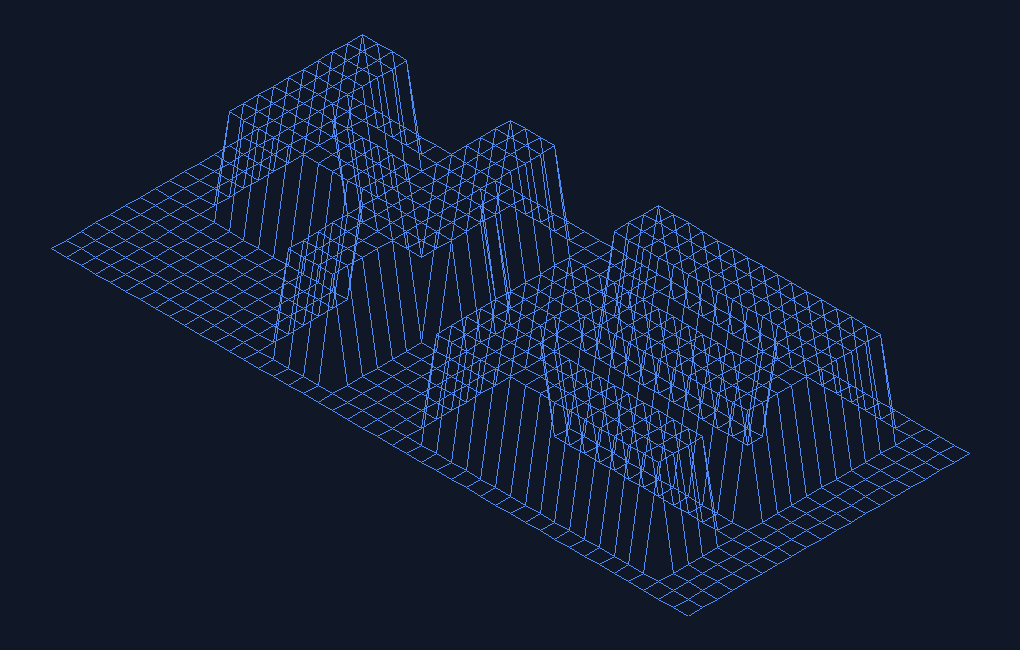
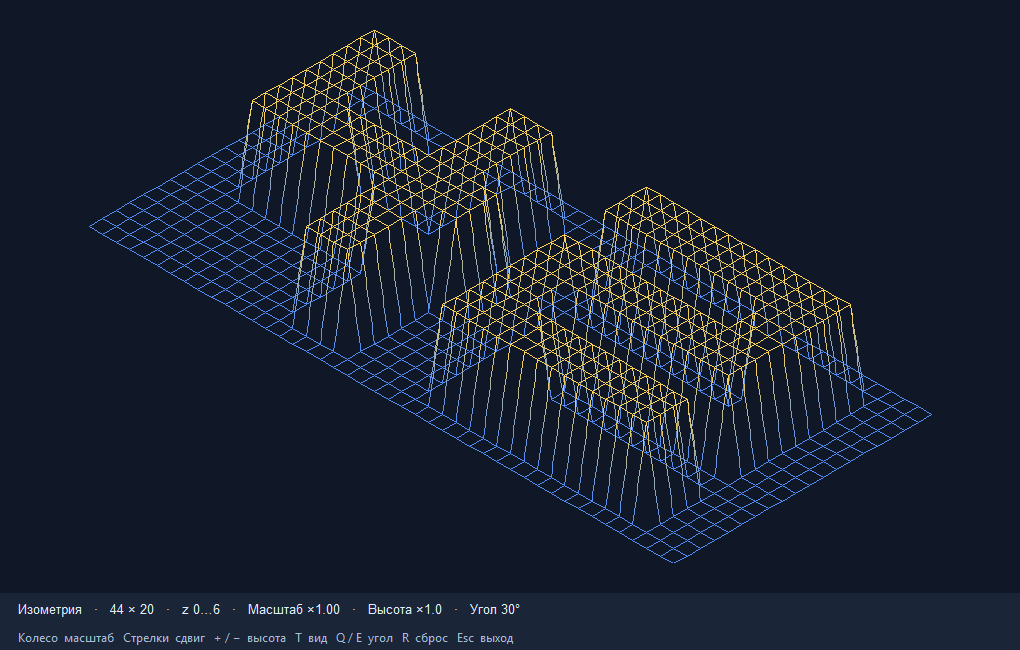
Добавить управление камерой и градиенты

diff --git a/fdf/app.py b/fdf/app.py
@@ -3,38 +3,88 @@
 from __future__ import annotations
 
 import tkinter as tk
+from math import ceil
 
 from fdf.errors import FdfError
 from fdf.model import Map
-from fdf.projection import Camera
+from fdf.projection import Camera, height_color, lerp_color
+
+ScreenPoint = tuple[float, float]
+BACKGROUND = "#101827"
+PANEL = "#1A2638"
+TEXT = "#E2EBFA"
+HINT = "#A9BCD7"
+PAN_STEPS = {"left": (-24, 0), "right": (24, 0), "up": (0, -24), "down": (0, 24)}
+RUSSIAN_SHORTCUTS = {"е": "t", "й": "q", "у": "e", "к": "r"}
+WINDOWS_SHORTCUTS = {ord(key.upper()): key for key in "tqer"}
 
 
 class App:
-    """Отобразить карту и обработать события окна."""
+    """Владеть окном, камерой и обработчиками событий."""
 
     def __init__(self, height_map: Map, map_name: str = "") -> None:
         self.height_map = height_map
         self.camera = Camera()
+        self._min_height = min(point.z for point in height_map)
+        self._max_height = max(point.z for point in height_map)
+        self._colors = [
+            point.color or height_color(point.z, self._min_height, self._max_height)
+            for point in height_map
+        ]
+        self._fit_scale = 1.0
+        self._model_center: ScreenPoint = (0.0, 0.0)
+        self._fit_needed = True
         self._redraw_id: str | None = None
+        self._render_error: FdfError | None = None
+
         try:
             self._root = tk.Tk()
         except tk.TclError as error:
             raise FdfError(f"не удалось открыть графическое окно: {error}") from error
 
+        self._windows = self._root.tk.call("tk", "windowingsystem") == "win32"
         self._root.title(f"FdF — {map_name}" if map_name else "FdF — карта высот")
         self._root.geometry("960x640")
-        self._canvas = tk.Canvas(self._root, background="#101827", highlightthickness=0)
-        self._canvas.pack(fill="both", expand=True)
+        self._root.minsize(550, 340)
+        self._root.columnconfigure(0, weight=1)
+        self._root.rowconfigure(0, weight=1)
+
+        self._canvas = tk.Canvas(self._root, background=BACKGROUND, highlightthickness=0)
+        self._canvas.grid(row=0, column=0, sticky="nsew")
+        self._status = tk.Label(
+            self._root,
+            anchor="w",
+            background=PANEL,
+            foreground=TEXT,
+            padx=16,
+            pady=6,
+            font=("TkDefaultFont", 10),
+        )
+        self._status.grid(row=1, column=0, sticky="ew")
+        controls = tk.Label(
+            self._root,
+            text="Колесо  масштаб   Стрелки  сдвиг   + / −  высота   "
+            "T  вид   Q / E  угол   R  сброс   Esc  выход",
+            anchor="w",
+            background=PANEL,
+            foreground=HINT,
+            padx=16,
+            pady=3,
+        )
+        controls.grid(row=2, column=0, sticky="ew")
+
         self._canvas.bind("<Configure>", self._on_resize)
-        self._root.bind("<Escape>", self._on_escape)
+        self._canvas.bind("<MouseWheel>", self._on_wheel)
+        self._canvas.bind("<Button-4>", self._on_wheel)
+        self._canvas.bind("<Button-5>", self._on_wheel)
+        self._root.bind("<KeyPress>", self._on_key)
         self._root.protocol("WM_DELETE_WINDOW", self._close)
 
     def run(self) -> None:
         """Запустить цикл обработки событий окна."""
         self._root.mainloop()
-
-    def _on_escape(self, _event: tk.Event[tk.Misc]) -> None:
-        self._close()
+        if self._render_error is not None:
+            raise self._render_error
 
     def _close(self) -> None:
         if self._redraw_id is not None:
@@ -42,21 +92,121 @@ class App:
         self._root.destroy()
 
     def _on_resize(self, _event: tk.Event[tk.Canvas]) -> None:
+        self._request_redraw(refit=True)
+
+    def _on_wheel(self, event: tk.Event[tk.Canvas]) -> None:
+        if event.num == 4:
+            steps = 1.0
+        elif event.num == 5:
+            steps = -1.0
+        else:
+            steps = min(4.0, max(-4.0, event.delta / 120))
+
+        old_scale = self.camera.scale
+        new_scale = min(self._fit_scale * 8, max(self._fit_scale * 0.2, old_scale * 1.18**steps))
+        ratio = new_scale / old_scale
+        center_x, center_y = self._model_center
+        self.camera.offset_x = center_x + (self.camera.offset_x - center_x) * ratio
+        self.camera.offset_y = center_y + (self.camera.offset_y - center_y) * ratio
+        self.camera.scale = new_scale
+        self._request_redraw()
+
+    def _on_key(self, event: tk.Event[tk.Misc]) -> None:
+        key = RUSSIAN_SHORTCUTS.get(event.char.lower(), event.keysym.lower())
+        if self._windows and key == "??":
+            key = WINDOWS_SHORTCUTS.get(event.keycode, key)
+        if key == "escape":
+            self._close()
+        elif key in PAN_STEPS:
+            dx, dy = PAN_STEPS[key]
+            self.camera.offset_x += dx
+            self.camera.offset_y += dy
+            center_x, center_y = self._model_center
+            self._model_center = center_x + dx, center_y + dy
+            self._request_redraw()
+        elif key in {"plus", "equal", "kp_add"}:
+            self.camera.z_scale = min(8.0, self.camera.z_scale + 0.2)
+            self._request_redraw(refit=True)
+        elif key in {"minus", "underscore", "kp_subtract"}:
+            self.camera.z_scale = max(0.0, self.camera.z_scale - 0.2)
+            self._request_redraw(refit=True)
+        elif key == "t":
+            self.camera.top_view = not self.camera.top_view
+            self._request_redraw(refit=True)
+        elif key == "q":
+            self.camera.angle = max(0.0, self.camera.angle - 5)
+            self._request_redraw(refit=True)
+        elif key == "e":
+            self.camera.angle = min(85.0, self.camera.angle + 5)
+            self._request_redraw(refit=True)
+        elif key == "r":
+            self.camera = Camera()
+            self._request_redraw(refit=True)
+
+    def _request_redraw(self, *, refit: bool = False) -> None:
+        self._fit_needed = self._fit_needed or refit
         if self._redraw_id is not None:
             self._root.after_cancel(self._redraw_id)
         self._redraw_id = self._root.after(25, self._draw)
 
     def _draw(self) -> None:
         self._redraw_id = None
-        self.camera.fit(self.height_map, self._canvas.winfo_width(), self._canvas.winfo_height())
+        try:
+            self._draw_map()
+        except (ArithmeticError, ValueError, tk.TclError):
+            self._render_error = FdfError("не удалось спроецировать карту с указанными высотами")
+            self._close()
+
+    def _draw_map(self) -> None:
+        width = self._canvas.winfo_width()
+        height = self._canvas.winfo_height()
+        if self._fit_needed:
+            self.camera.fit(self.height_map, width, height)
+            self._fit_scale = self.camera.scale
+            self._model_center = width / 2, height / 2
+            self._fit_needed = False
+
         self._canvas.delete("all")
         points = [self.camera.project(point) for point in self.height_map]
         if len(points) == 1:
             x, y = points[0]
-            self._canvas.create_oval(x - 3, y - 3, x + 3, y + 3, fill="#528DF6", outline="")
+            self._canvas.create_oval(x - 3, y - 3, x + 3, y + 3, fill=self._colors[0], outline="")
 
         columns = self.height_map.width
         for index, point in enumerate(self.height_map):
+            x0, y0 = points[index]
             for neighbor in self.height_map.neighbors(point):
                 target = neighbor.y * columns + neighbor.x
-                self._canvas.create_line(*points[index], *points[target], fill="#528DF6")
+                x1, y1 = points[target]
+                if max(x0, x1) < 0 or min(x0, x1) > width:
+                    continue
+                if max(y0, y1) < 0 or min(y0, y1) > height:
+                    continue
+                self._draw_edge((x0, y0), (x1, y1), self._colors[index], self._colors[target])
+
+        mode = "Вид сверху" if self.camera.top_view else "Изометрия"
+        zoom = self.camera.scale / self._fit_scale
+        self._status.configure(
+            text=f"{mode}   ·   {columns} × {self.height_map.height}   ·   "
+            f"z {self._min_height}…{self._max_height}   ·   "
+            f"Масштаб ×{zoom:.2f}   ·   Высота ×{self.camera.z_scale:.1f}   ·   "
+            f"Угол {self.camera.angle:g}°"
+        )
+
+    def _draw_edge(
+        self, start: ScreenPoint, end: ScreenPoint, color_a: str, color_b: str
+    ) -> None:
+        if color_a == color_b:
+            self._canvas.create_line(*start, *end, fill=color_a)
+            return
+
+        dx, dy = end[0] - start[0], end[1] - start[1]
+        segments = min(16, max(1, ceil(max(abs(dx), abs(dy)) / 3)))
+        x0, y0 = start
+        for index in range(segments):
+            position = (index + 1) / segments
+            x1, y1 = start[0] + dx * position, start[1] + dy * position
+            mix = index / (segments - 1) if segments > 1 else 0.5
+            color = lerp_color(color_a, color_b, mix)
+            self._canvas.create_line(x0, y0, x1, y1, fill=color)
+            x0, y0 = x1, y1

diff --git a/fdf/projection.py b/fdf/projection.py
@@ -1,12 +1,11 @@
-"""Изометрическая проекция точек карты на плоскость окна."""
+"""Проекция точек на экран и интерполяция цветов."""
 
 import math
 from dataclasses import dataclass
 
 from .model import Map, Point
 
-_COS_30 = math.cos(math.radians(30))
-_SIN_30 = math.sin(math.radians(30))
+_HEIGHT_PALETTE = ("#528DF6", "#55C9AA", "#FFE065", "#FF795D")
 
 
 @dataclass
@@ -15,10 +14,16 @@ class Camera:
     offset_x: float = 0.0
     offset_y: float = 0.0
     z_scale: float = 1.0
+    angle: float = 30.0
+    top_view: bool = False
 
     def _on_plane(self, point: Point) -> tuple[float, float]:
-        x = (point.x - point.y) * _COS_30
-        y = (point.x + point.y) * _SIN_30 - point.z * self.z_scale
+        if self.top_view:
+            return point.x, point.y
+
+        slope = math.radians(self.angle)
+        x = (point.x - point.y) * math.cos(slope)
+        y = (point.x + point.y) * math.sin(slope) - point.z * self.z_scale
         return x, y
 
     def project(self, point: Point) -> tuple[float, float]:
@@ -44,3 +49,28 @@ class Camera:
         center_y = top / 2 + bottom / 2
         self.offset_x = width / 2 - center_x * self.scale
         self.offset_y = height / 2 - center_y * self.scale
+
+
+def lerp_color(start: str, end: str, t: float) -> str:
+    """Смешать два цвета #RRGGBB независимо по каждому каналу."""
+    t = max(0.0, min(t, 1.0))
+    channels: list[str] = []
+    for index in (1, 3, 5):
+        a = int(start[index : index + 2], 16)
+        b = int(end[index : index + 2], 16)
+        channels.append(f"{round((1 - t) * a + t * b):02X}")
+    return "#" + "".join(channels)
+
+
+def height_color(z: int, z_min: int, z_max: int) -> str:
+    """Выбрать цвет из палитры по относительной высоте точки."""
+    if z_min == z_max:
+        return _HEIGHT_PALETTE[0]
+
+    last_index = len(_HEIGHT_PALETTE) - 1
+    ratio = (z - z_min) / (z_max - z_min)
+    position = max(0.0, min(ratio, 1.0)) * last_index
+    index = min(int(position), last_index - 1)
+    return lerp_color(
+        _HEIGHT_PALETTE[index], _HEIGHT_PALETTE[index + 1], position - index
+    )

diff --git a/tests/test_bonuses.py b/tests/test_bonuses.py
@@ -1,0 +1,37 @@
+import pytest
+
+from fdf.model import Point
+from fdf.projection import Camera, height_color, lerp_color
+
+
+def test_top_view_ignores_height() -> None:
+    camera = Camera(top_view=True)
+
+    assert camera.project(Point(2, 3, -9)) == pytest.approx((2, 3))
+    assert camera.project(Point(2, 3, 12)) == pytest.approx((2, 3))
+
+
+def test_rotation_and_height_scale() -> None:
+    camera = Camera(angle=0, z_scale=2)
+
+    assert camera.project(Point(2, 1, 3)) == pytest.approx((1, -6))
+
+
+def test_color_interpolates_each_channel() -> None:
+    start, end = "#004000", "#F0A060"
+
+    assert lerp_color(start, end, 0) == start
+    assert lerp_color(start, end, 0.5) == "#787030"
+    assert lerp_color(start, end, 1) == end
+
+
+def test_height_color_handles_flat_map_and_a_range() -> None:
+    flat = height_color(4, 4, 4)
+    low = height_color(-3, -3, 5)
+    middle = height_color(1, -3, 5)
+    high = height_color(5, -3, 5)
+
+    for color in (flat, low, middle, high):
+        assert color.startswith("#") and len(color) == 7
+        assert color[1:] == f"{int(color[1:], 16):06X}"
+    assert len({low, middle, high}) == 3

diff --git a/docs/defense.md b/docs/defense.md
@@ -1,0 +1,22 @@
+# Подготовка к защите FdF
+
+## Что делает программа
+
+Файл `.fdf` устроен как таблица. Номер колонки даёт координату `x`, номер ряда — `y`, а число в ячейке — высоту `z`. Например, в `maps/elem.fdf` центральная точка имеет координаты `(2, 2, 5)`. Парсер читает таблицу, камера переводит трёхмерные точки в координаты окна, а интерфейс соединяет соседние точки линиями.
+
+## Что показать на защите
+
+1. Запустите `python main.py maps/elem.fdf`, чтобы показать небольшую карту с вершиной.
+2. Измените размер окна и покажите, как каркас подстраивается. Прокрутите колесо мыши, нажмите стрелку, затем `R`, чтобы сбросить изменения.
+3. На карте `maps/peak.fdf` покажите цвет вершины и градиент на рёбрах. Клавиша `T` включает вид сверху, `Q` и `E` поворачивают изометрию.
+4. Запустите `python main.py maps/bad/invalid_value.fdf`, чтобы продемонстрировать сообщение с позицией ошибки. Если преподаватель даст свой файл, передайте его путь в той же команде.
+
+## Контрольные вопросы
+
+1. **Зачем парсер возбуждает исключение?** Парсер сообщает о проблеме через `MapFormatError`. Командная строка решает, как показать сообщение и с каким кодом завершиться. В тесте то же исключение можно проверить через `pytest.raises`.
+2. **Почему высота вычитается?** Координата `Y` в окне растёт вниз. Положительная высота уменьшает `Y` и поднимает точку. При `angle = 0` синус равен нулю, поэтому вертикальные координаты зависят только от высот. Плоская карта в таком ракурсе выглядит как горизонтальная линия. При `z_scale = 0` высота перестаёт влиять на геометрию.
+3. **Как работает `Camera.fit`?** Камера проецирует точки и измеряет границы изображения. Она берёт меньший масштаб из двух, рассчитанных по ширине и высоте, оставляет поля и совмещает центр границ с центром окна. Ось нулевого размера не ограничивает масштаб. Единственная точка оказывается в центре, для масштаба используется запасное значение.
+4. **Почему достаточно соседей справа и снизу?** Горизонтальное ребро рисуется от левой точки, вертикальное — от верхней. Этого достаточно, чтобы обойти каждое ребро один раз. В сетке шириной `w` и высотой `h` получится `h × (w − 1) + w × (h − 1)` рёбер.
+5. **Зачем отделять графический интерфейс?** Модель, парсер и камера работают с данными и числами. Их можно импортировать и тестировать на сервере без дисплея. Окно и обработчики клавиш находятся в отдельном модуле `app.py`.
+6. **Как получается градиент?** В позиции `k` на линии из `n` шагов доля пути равна `t = k / n`. Каждый канал R, G и B вычисляется по формуле `round((1 − t) × A + t × B)`. Например, между красным и синим в середине получается `#800080`. В окне переход отображается короткими одноцветными отрезками.
+7. **Чем pull request отличается от коммита в main?** Коммит фиксирует один набор изменений. Pull request предлагает влить ветку в `main` и собирает её изменения, обсуждение и результаты проверок. В описании можно объяснить назначение правок и указать команды для проверки.

diff --git a/README.md b/README.md
@@ -30,7 +30,7 @@ python3 -m venv .venv
 ```
 
 Чтобы открыть другую карту, укажите её путь вместо `maps/42.fdf`.
-Например, `maps/flat.fdf` показывает плоскую сетку, а `maps/elem.fdf` — возвышение из двух уровней.
+Например, `maps/flat.fdf` показывает плоскую сетку, а `maps/peak.fdf` — цветную вершину.
 Если в пути есть пробелы, заключите его в кавычки.
 Проверить доступность графической библиотеки можно командой `python -m tkinter`.
 
@@ -38,6 +38,12 @@ python3 -m venv .venv
 
 | Клавиша или действие | Результат |
 | --- | --- |
+| Колесо мыши | Изменить масштаб относительно центра окна |
+| Стрелки | Сдвинуть карту |
+| `+` и `−` | Изменить масштаб высот |
+| `T` | Переключить изометрию и вид сверху |
+| `Q` и `E` | Повернуть изометрию |
+| `R` | Вернуть исходный вид |
 | `Esc` или закрытие окна | Выйти из программы |
 
 ## Формат карты
@@ -48,7 +54,8 @@ python3 -m venv .venv
 Пустые строки в конце файла пропускаются.
 
 После высоты через запятую можно указать цвет `0xRRGGBB`. Допускаются от одной до шести шестнадцатеричных цифр произвольного регистра.
-Например, `0xff` задаёт синий цвет `#0000FF`.
+Например, `0xff` задаёт синий цвет `#0000FF`. Для точек без цвета программа подбирает цвет по высоте.
+Если цвета концов ребра различаются, вдоль ребра строится градиент.
 
 ```text
 0 0       0
@@ -67,7 +74,7 @@ python3 -m venv .venv
 | `fdf/errors.py` | Исключения и диагностика формата |
 | `fdf/parser.py` | Чтение файла и проверка значений |
 | `fdf/model.py` | Точки, прямоугольная сетка и поиск соседей |
-| `fdf/projection.py` | Изометрическая проекция и камера |
+| `fdf/projection.py` | Проекция, камера и интерполяция цветов |
 | `fdf/app.py` | Окно `tkinter`, отрисовка и обработка ввода |
 | `maps/` | Демонстрационные карты и примеры ошибок формата |
 | `tests/` | Тесты парсера, модели и проекции |
